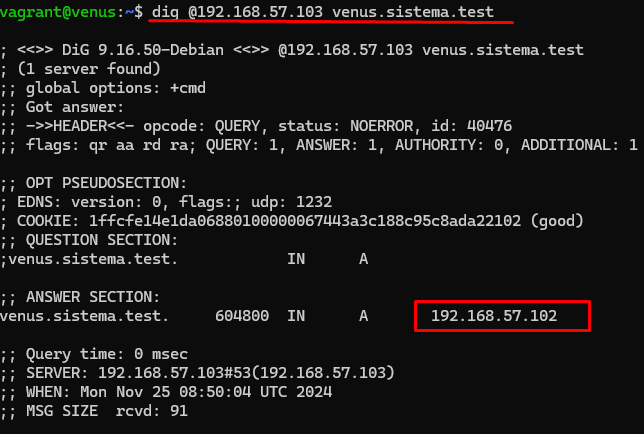
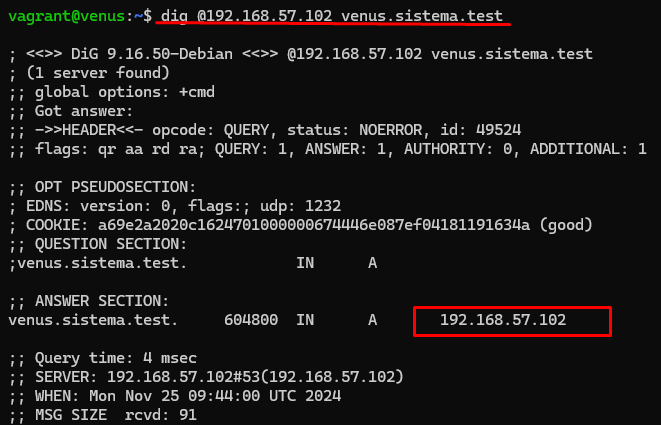
"Updated README.md with IP address changes, modified Vagrantfile to copy additional config files, and updated image files."

diff --git a/README.md b/README.md
@@ -227,9 +227,9 @@ Ahora procederemos a hacer las siguientes comprobaciones.
     ![alt text](img/image3.png)
 
     - Desde el servidor venus:
-    `dig @192.168.57.103 tierra.sistema.test`
+    `dig @192.168.57.102 tierra.sistema.test`
     ![alt text](img/image4.png)
-    `dig @192.168.57.103 venus.sistema.test`
+    `dig @192.168.57.102 venus.sistema.test`
     ![alt text](img/image5.png)
 
 - Comprueba que se pueden resolver de forma inversa sus direcciones IP.
@@ -240,23 +240,23 @@ Ahora procederemos a hacer las siguientes comprobaciones.
     ![alt text](img/image7.png)
 
     - Desde el servidor venus:
-    `dig @192.168.57.103 -x 192.168.57.103`
+    `dig @192.168.57.102 -x 192.168.57.103`
     ![alt text](img/image8.png)
-    `dig @192.168.57.103 -x 192.168.57.102`
+    `dig @192.168.57.102 -x 192.168.57.102`
     ![alt text](img/image9.png)
 
 - Puedes resolver los alias `ns1.sistema.test` y `ns2.sistema.test`.
     - Desde el servidor tierra:
     `dig @192.168.57.103 ns1.sistema.test`
     ![alt text](img/image10.png)
-    ` dig @192.168.57.103 ns2.sistema.test`
-    ![alt text](img/image7.png)
+    `dig @192.168.57.103 ns2.sistema.test`
+    ![alt text](img/image11.png)
 
     - Desde el servidor venus:
-    `dig @192.168.57.103 -x 192.168.57.103`
-    ![alt text](img/image8.png)
-    `dig @192.168.57.103 -x 192.168.57.102`
-    ![alt text](img/image9.png)
+    `dig @192.168.57.102 ns1.sistema.test`
+    ![alt text](img/image12.png)
+    `dig @192.168.57.102 ns2.sistema.test`
+    ![alt text](img/image13.png)
 
 - Realiza la consulta para saber los servidores `NS` de `sistema.test`. Debes obtener `tierra.sistema.test` y `venus.sistema.test`.
 - Realiza la consulta para saber los servidores `MX` de `sistema.test`.
